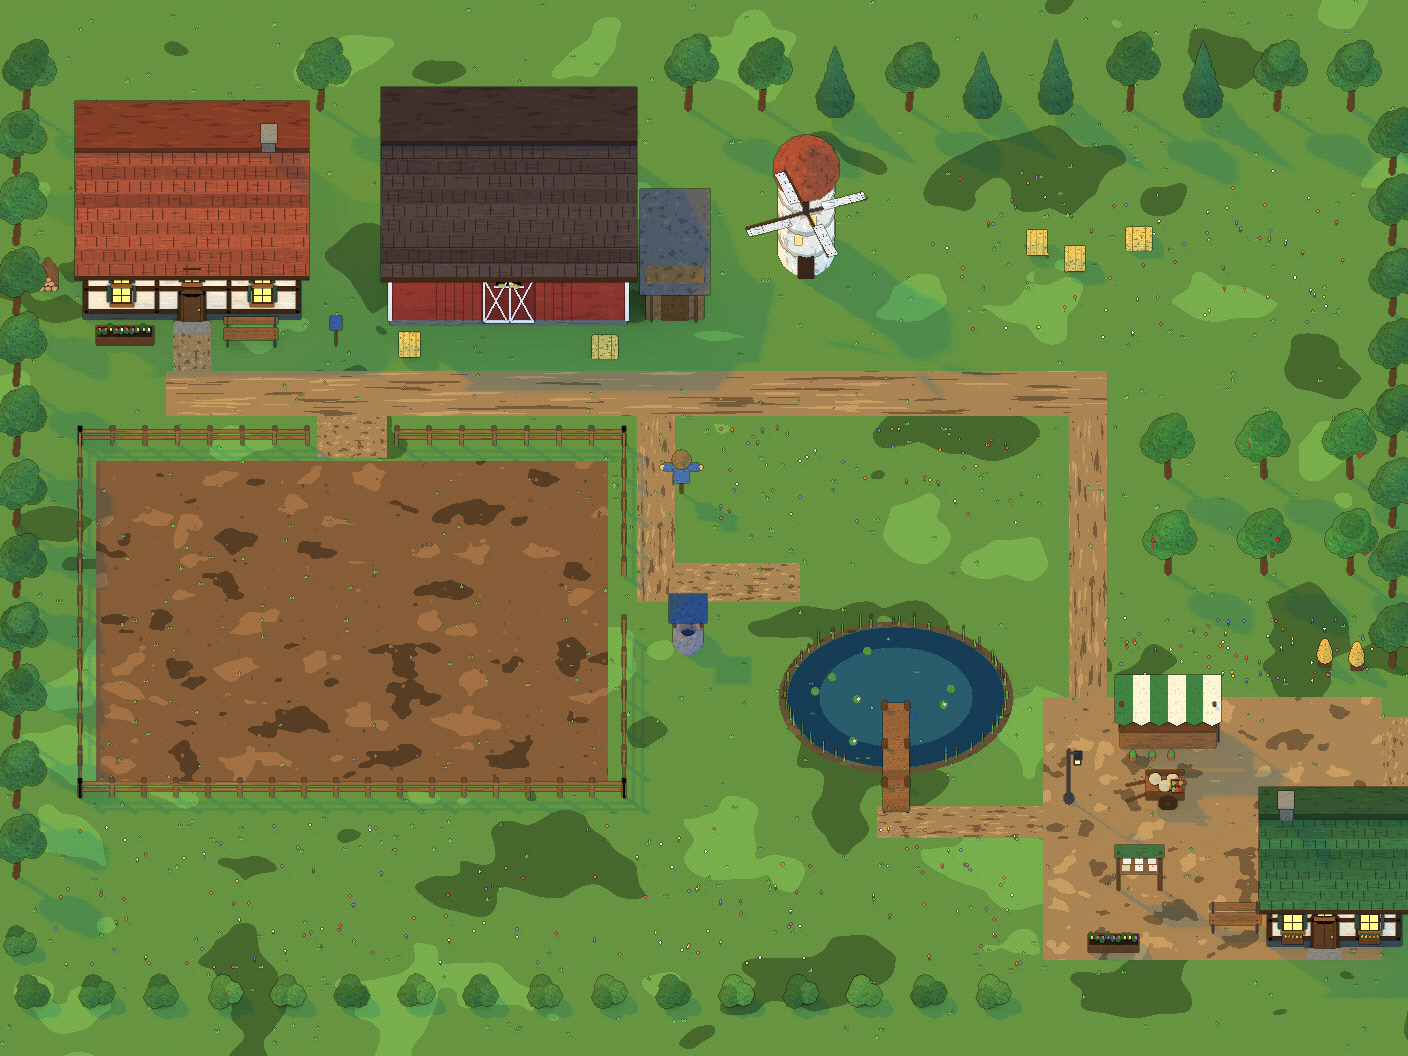
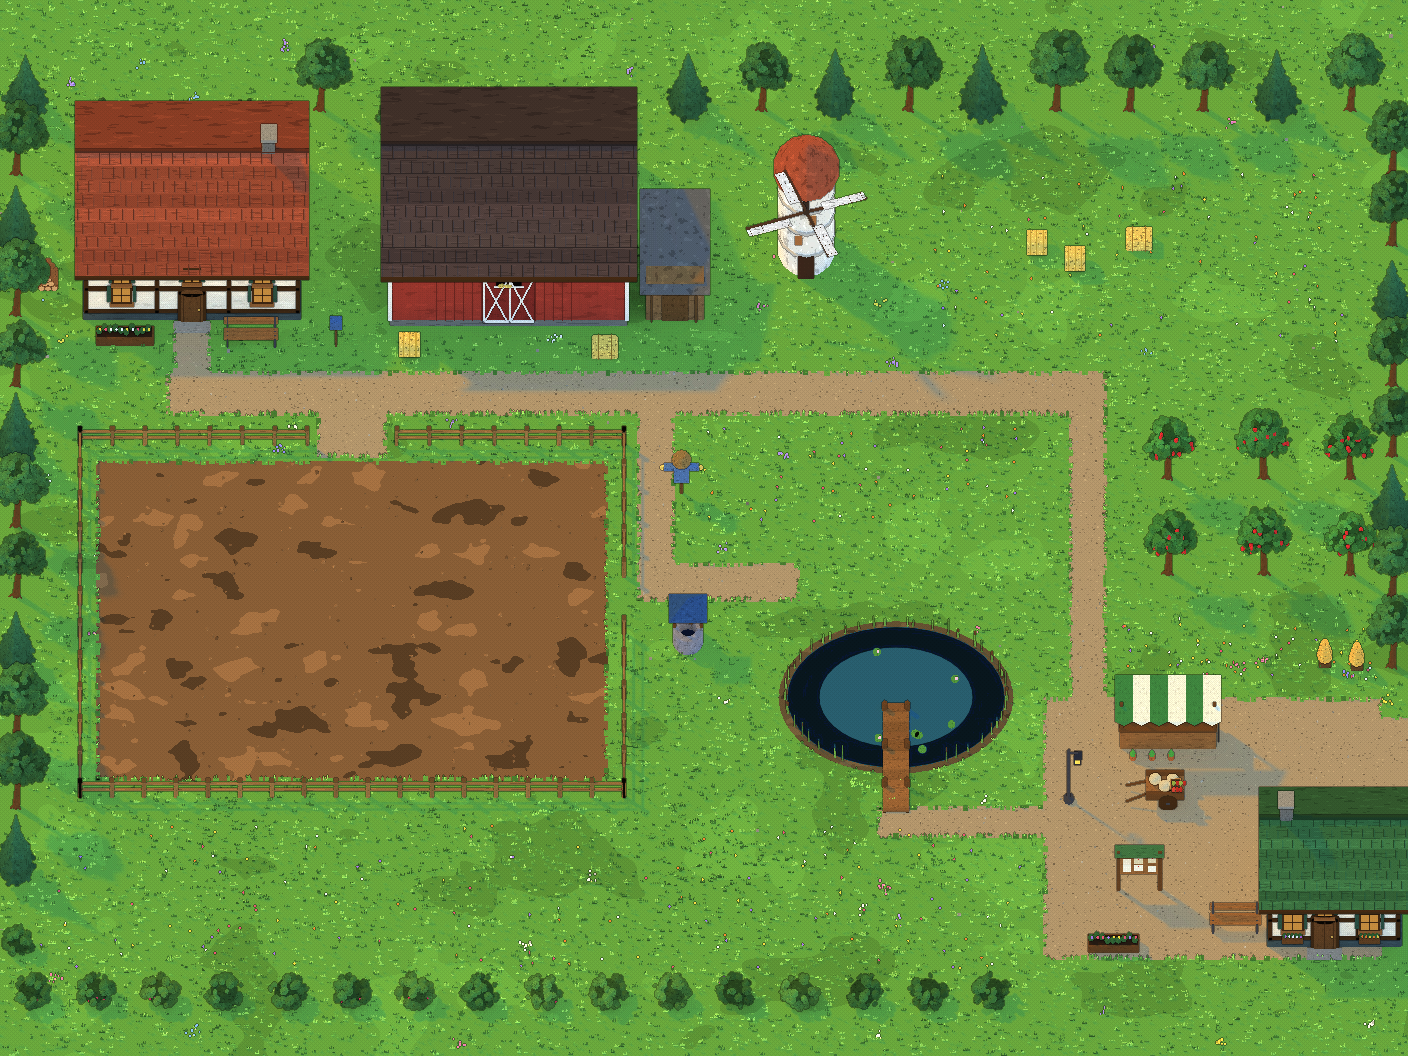
Verdance farm: the new meadow render, with dusk, night and a leaf pass
The farm re-rendered with the dense meadow, turf creeping over the paths, and
trees that turn with Verdance's seasons. The art kit also gets: crumbly earth
for fields, fine gravel for the village landing green, and cobbles that sit
above a lawn so a square laid over grass shows grout between its stones.

Claude-Session: https://claude.ai/code/session_01D64r7qp9r1aCtRpZrBisjj

diff --git a/tools/bridge-art/assets_town.py b/tools/bridge-art/assets_town.py
@@ -53,10 +53,13 @@ def lantern(k, lx, lr, z0, z1, s=0.1, energy=0.0, light_dr=0.2):
 
 
 # ---- ground ------------------------------------------------------------------------------
-def cobbles(k, x0, r0, x1, r1, tone='#55524c', size=0.3, skip=None):
+def cobbles(k, x0, r0, x1, r1, tone='#55524c', size=0.3, skip=None, lawn=False):
     """Rounded, irregular cobblestones (jittered, varied in size and tone)
-    over dark grout. skip(x, r) -> True leaves a spot bare."""
-    k.box(x0, r0, -0.12, x1, r1, -0.03, ('#24221e', 0.25), 'grout')
+    over dark grout. skip(x, r) -> True leaves a spot bare. lawn: the square is
+    laid over a lawn (W.grass), so the grout and stones sit just above its turf."""
+    lift = 0.033 if lawn else 0.0
+    k.box(x0, r0, -0.12, x1, r1, -0.03 + lift, ('#3a3730', 0.1) if lawn else ('#24221e', 0.25), 'grout')
+    k.sparse = getattr(k, 'sparse', []) + [(x0, r0, x1, r1, 0.08)]   # a lawn under a square grows only a little moss between the stones
     r = r0
     i = 0
     while r < r1 - 1e-6:
@@ -67,7 +70,7 @@ def cobbles(k, x0, r0, x1, r1, tone='#55524c', size=0.3, skip=None):
             if x0 <= cx <= x1 and not (skip and skip(cx, cr)):
                 rx = size * k.rng.uniform(0.4, 0.5)
                 ry = size * k.rng.uniform(0.38, 0.47)
-                k.cyl(cx, cr, -0.05, 0.0 + k.rng.uniform(0.0, 0.02), rx, (shade(tone, k.rng.uniform(0.8, 1.12)), 0.12),
+                k.cyl(cx, cr, -0.05, lift + k.rng.uniform(0.0, 0.02), rx, (shade(tone, k.rng.uniform(0.8, 1.12)), 0.12),
                       'cobble', ry=ry, verts=k.rng.choice((6, 7, 8)), bevel=0.02)
             x += size * k.rng.uniform(0.95, 1.05)
         r += size
@@ -161,9 +164,14 @@ def meadow(k, tone, area=None, cells=None, ok=('grass',), density=1.0, avoid=Non
     def isok(p_):
         return p_ is not None and any(p_ == o or p_.startswith(o + '_') for o in ok)
 
+    sparse = getattr(k, 'sparse', [])
+
     def spot(x, r):                                            # grass can grow here: its height, else None
         if not inside(x, r) or (avoid and avoid(x, r)):
             return None
+        for (sx0, sr0, sx1, sr1, keep) in sparse:            # between cobbles: only now and then
+            if sx0 <= x < sx1 and sr0 <= r < sr1 and k.rng.random() > keep:
+                return None
         p_, z = k.top(x, r)
         return z + 0.002 if isok(p_) else None
     per = 20.0 * density

diff --git a/tools/bridge-art/scenes/verdance_village.py b/tools/bridge-art/scenes/verdance_village.py
@@ -43,7 +43,7 @@ SMOKE = []
 W.grass(k, 0, -2.4, COLS, ROWS + 0.6, tone=F.GRASS, tufts=0.45)
 F.dirt_path(k, 0.6, 10.4, 45.4, 12.4)                            # the main street
 F.dirt_path(k, 38.6, 9.2, 40.4, 10.4)                            # up to the landing green
-W.cobbles(k, 9.0, 12.4, 27.0, 19.6, tone='#8a8274')              # the square
+W.cobbles(k, 9.0, 12.4, 27.0, 19.6, tone='#8a8274', lawn=True)   # the square
 F.dirt_path(k, 10.0, 19.6, 11.4, SR0 - 0.2)                      # Meadow Lane, down to the footbridge...
 F.dirt_path(k, 10.0, SR1 + 0.2, 11.4, ROWS + 0.6)                # ...and away south
 F.dirt_path(k, 30.0, 19.6, 31.8, SR0 - 0.2)                      # to the stone bridge
@@ -91,9 +91,20 @@ V.board_sign(k, "ST ELM'S", 'IMFellEnglishSC', 28.9, FRONT + 0.03, 1.66, size=0.
 W.bell_tower(k, 32.0, FRONT, w=1.5, h=4.6)
 # the landing green: a mown ring in the meadow, the skiff on it, a windsock, the village sign
 PX, PR = 39.6, 6.2
-k.cyl(PX, PR, -0.01, 0.014, 3.05, ('#b8ad94', 0.3), 'pad_gravel', verts=48)
-k.cyl(PX, PR, 0.0, 0.02, 2.6, ('#ece6d4', 0.25), 'pad_ring', verts=48)
-k.cyl(PX, PR, 0.0, 0.026, 2.42, ('#b0a58c', 0.3), 'pad_gravel', verts=48)
+k.cyl(PX, PR, -0.01, 0.014, 3.05, ('#b8ad94', 0.0), 'pad_gravel', verts=48)
+k.cyl(PX, PR, 0.0, 0.02, 2.6, ('#ece6d4', 0.1), 'pad_ring', verts=48)
+k.cyl(PX, PR, 0.0, 0.026, 2.42, ('#b0a58c', 0.0), 'pad_gravel', verts=48)
+grit = {}                                                           # the gravel: a fine grit of light and dark stones
+for _ in range(2600):
+    a, d = k.rng.uniform(0, math.tau), 3.0 * math.sqrt(k.rng.random())
+    if 2.36 < d < 2.66:
+        continue
+    x, r, z = PX + math.cos(a) * d, PR + math.sin(a) * d, (0.026 if d < 2.4 else 0.014)
+    col = k.rng.choices(('#8e846c', '#a29880', '#cdc4ae', '#e0d8c4'), (0.3, 0.3, 0.25, 0.15))[0]
+    s = k.rng.uniform(0.012, 0.026)
+    grit.setdefault(col, []).append((x - s, r - s * 0.8, z, x + s, r + s * 0.8, z + 0.0015))
+for col, rs in grit.items():
+    k.boxes(rs, (col, 0.0), 'pad_gravel')
 for i in range(28):
     a = i * math.tau / 28
     k.rock(PX + math.cos(a) * 3.2, PR + math.sin(a) * 3.2, 0.02, 0.1, 0.08, 0.06, ('#e8e4dc', 0.2), part='pad_stone', segs=6)

diff --git a/tools/bridge-art/assets_farm.py b/tools/bridge-art/assets_farm.py
@@ -115,8 +115,16 @@ def pond(k, cx, cr, rx, ry, seed=0):
 
 def earth(k, x0, r0, x1, r1):
     """The field: bare, crumbly earth waiting to be worked (the game tills it, a tile at a time)."""
-    k.box(x0, r0, -0.02, x1, r1, 0.012, (EARTH, 0.35), 'field')
+    k.box(x0, r0, -0.02, x1, r1, 0.012, (EARTH, 0.0), 'field')
     k.later.append(lambda: W.ragged_edges(k, x0, r0, x1, r1, GRASS, z=0.012))
+    specks = {shade(EARTH, 0.78): [], shade(EARTH, 0.9): [], shade(EARTH, 1.14): [], shade(EARTH, 0.64): []}
+    cols = list(specks)
+    for _ in range(int((x1 - x0) * (r1 - r0) * 40)):                   # crumbs of earth, light and dark (a grain read as blotches)
+        x, r = k.rng.uniform(x0, x1), k.rng.uniform(r0, r1)
+        a, b = k.rng.uniform(0.012, 0.032), k.rng.uniform(0.01, 0.024)
+        specks[k.rng.choices(cols, (0.3, 0.35, 0.22, 0.13))[0]].append((x - a, r - b, 0.012, x + a, r + b, 0.0135))
+    for col, rs in specks.items():
+        k.boxes(rs, (col, 0.0), 'field')
     for _ in range(int((x1 - x0) * (r1 - r0) * 1.4)):
         x, r = k.rng.uniform(x0 + 0.1, x1 - 0.1), k.rng.uniform(r0 + 0.1, r1 - 0.1)
         s = k.rng.uniform(0.04, 0.09)

diff --git a/tools/bridge-art/scenekit.py b/tools/bridge-art/scenekit.py
@@ -666,7 +666,7 @@ class Kit:
         base = c.get('base', 'night')
         day_sky, dusk_sky, night_sky = c.get('day_sky', ('#a8c4e0', 0.85)), c.get('dusk_sky', ('#66708a', 0.55)), c.get('night_sky', ('#2a3450', 0.6))
         sun = c.get('sun', ((0.62, 0.42, -0.62), '#ffe2b0', 4.2))
-        dsun = c.get('dusk_sun', ((0.92, 0.12, -0.24), '#ffa45e', 3.0))       # low and warm, the shadows violet
+        dsun = c.get('dusk_sun', ((0.92, 0.12, -0.24), '#ffa45e', 3.0))       # low and gold, the shadows cool
         states = dict(light_states)
         first = list(states)[0]
         if base == 'night':
